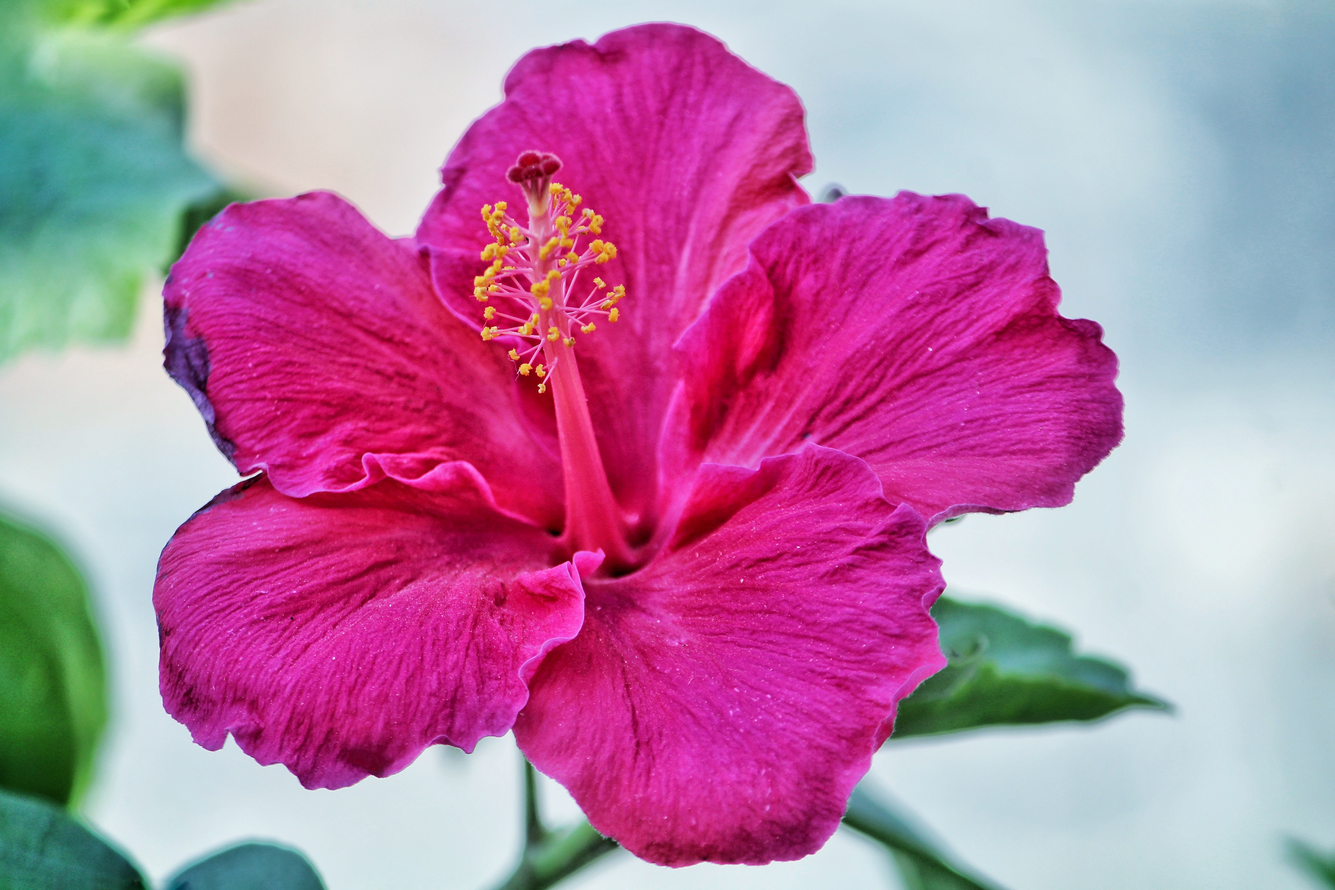
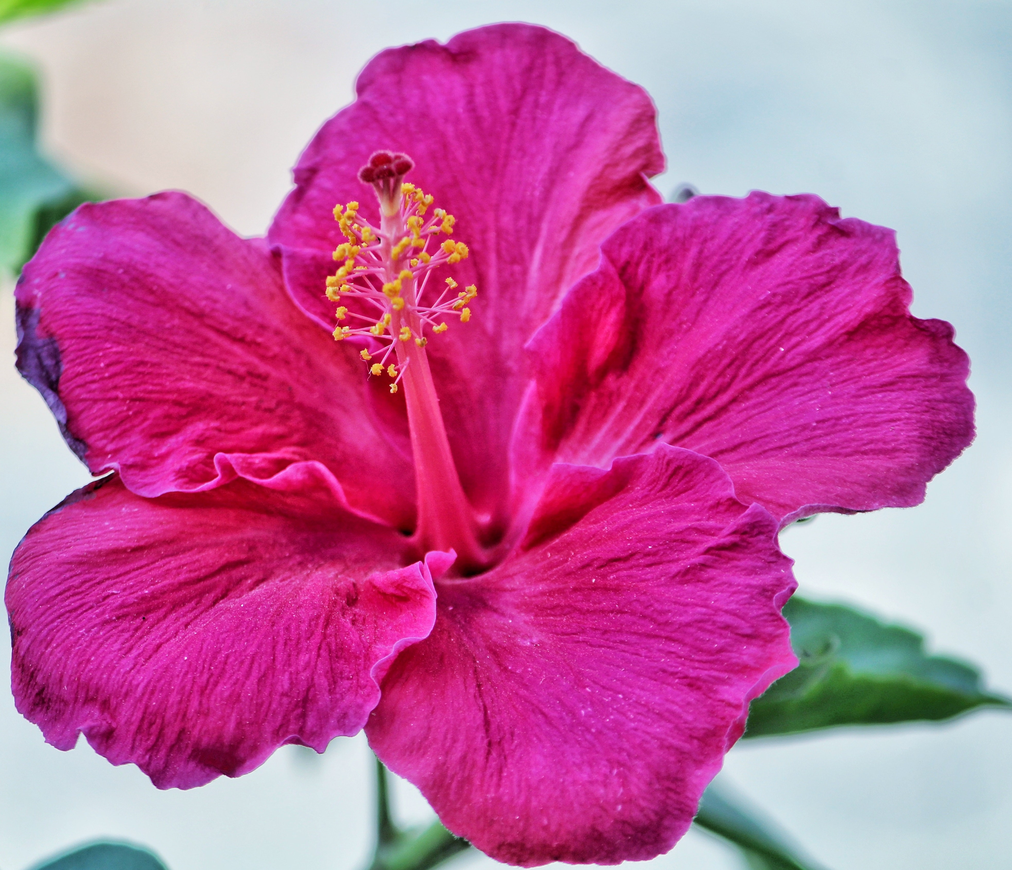
add images correspond to its product

diff --git a/src/components/Services.vue b/src/components/Services.vue
@@ -23,7 +23,7 @@
             <q-item clickable v-close-popup @click="onItemClick">
               <q-item-section>
                 <q-item-label class="tw-shadow-xl">
-                  <img class="tw-object-cover tw-shadow-xl tw-h-48 tw-rounded-lg tw-overflow-hidden tw-rounded-b-lg tw-mx-auto tw-w-full hover:tw-shadow-2xl"  src="/img/pexels-pixabay-39304.jpg" alt="">
+                  <img class="tw-object-cover tw-shadow-xl tw-h-48 tw-rounded-lg tw-overflow-hidden tw-rounded-b-lg tw-mx-auto tw-w-full hover:tw-shadow-2xl"  src="/img/pexels-pixabay-161556.jpg" alt="">
                 </q-item-label>
               </q-item-section>
             </q-item>
@@ -44,7 +44,7 @@
         </q-btn-dropdown>
       </div>
       <div class="tw-w-full sm:tw-w-1/2 tmd:tw-w-1/3 lg:tw-w-1/4 tw-text-xl tw-mx-0">
-        <q-btn-dropdown flat label="hibuscus flower" class="sm:tw-text-md tw-mt-6 tw-w-full tw-text-gray-700 tw-tracking-widest tw-font-thin tw-font-mono tw-text-left" dropdown-icon="">
+        <q-btn-dropdown flat label="hibiscus flower" class="sm:tw-text-md tw-mt-6 tw-w-full tw-text-gray-700 tw-tracking-widest tw-font-thin tw-font-mono tw-text-left" dropdown-icon="">
           <q-list>
             <q-item clickable v-close-popup @click="onItemClick">
               <q-item-section>
@@ -114,7 +114,7 @@
             <q-item clickable v-close-popup @click="onItemClick">
               <q-item-section>
                 <q-item-label class="tw-shadow-xl">
-                  <img class="tw-object-cover tw-shadow-xl tw-h-48 tw-rounded-lg tw-overflow-hidden tw-rounded-b-lg tw-mx-auto tw-w-full hover:tw-shadow-2xl"  src="/img/pexels-pixabay-39304.jpg" alt="">
+                  <img class="tw-object-cover tw-shadow-xl tw-h-48 tw-rounded-lg tw-overflow-hidden tw-rounded-b-lg tw-mx-auto tw-w-full hover:tw-shadow-2xl"  src="/img/pexels-anna-nekrashevich-7214784.jpg" alt="">
                 </q-item-label>
               </q-item-section>
             </q-item>
@@ -140,7 +140,7 @@
             <q-item clickable v-close-popup @click="onItemClick">
               <q-item-section>
                 <q-item-label class="tw-shadow-xl">
-                  <img class="tw-object-cover tw-shadow-xl tw-h-48 tw-rounded-lg tw-overflow-hidden tw-rounded-b-lg tw-mx-auto tw-w-full hover:tw-shadow-2xl"  src="/img/pexels-pixabay-39304.jpg" alt="">
+                  <img class="tw-object-cover tw-shadow-xl tw-h-48 tw-rounded-lg tw-overflow-hidden tw-rounded-b-lg tw-mx-auto tw-w-full hover:tw-shadow-2xl"  src="/img/pexels-public-domain-pictures-42059.jpg" alt="">
                 </q-item-label>
               </q-item-section>
             </q-item>
